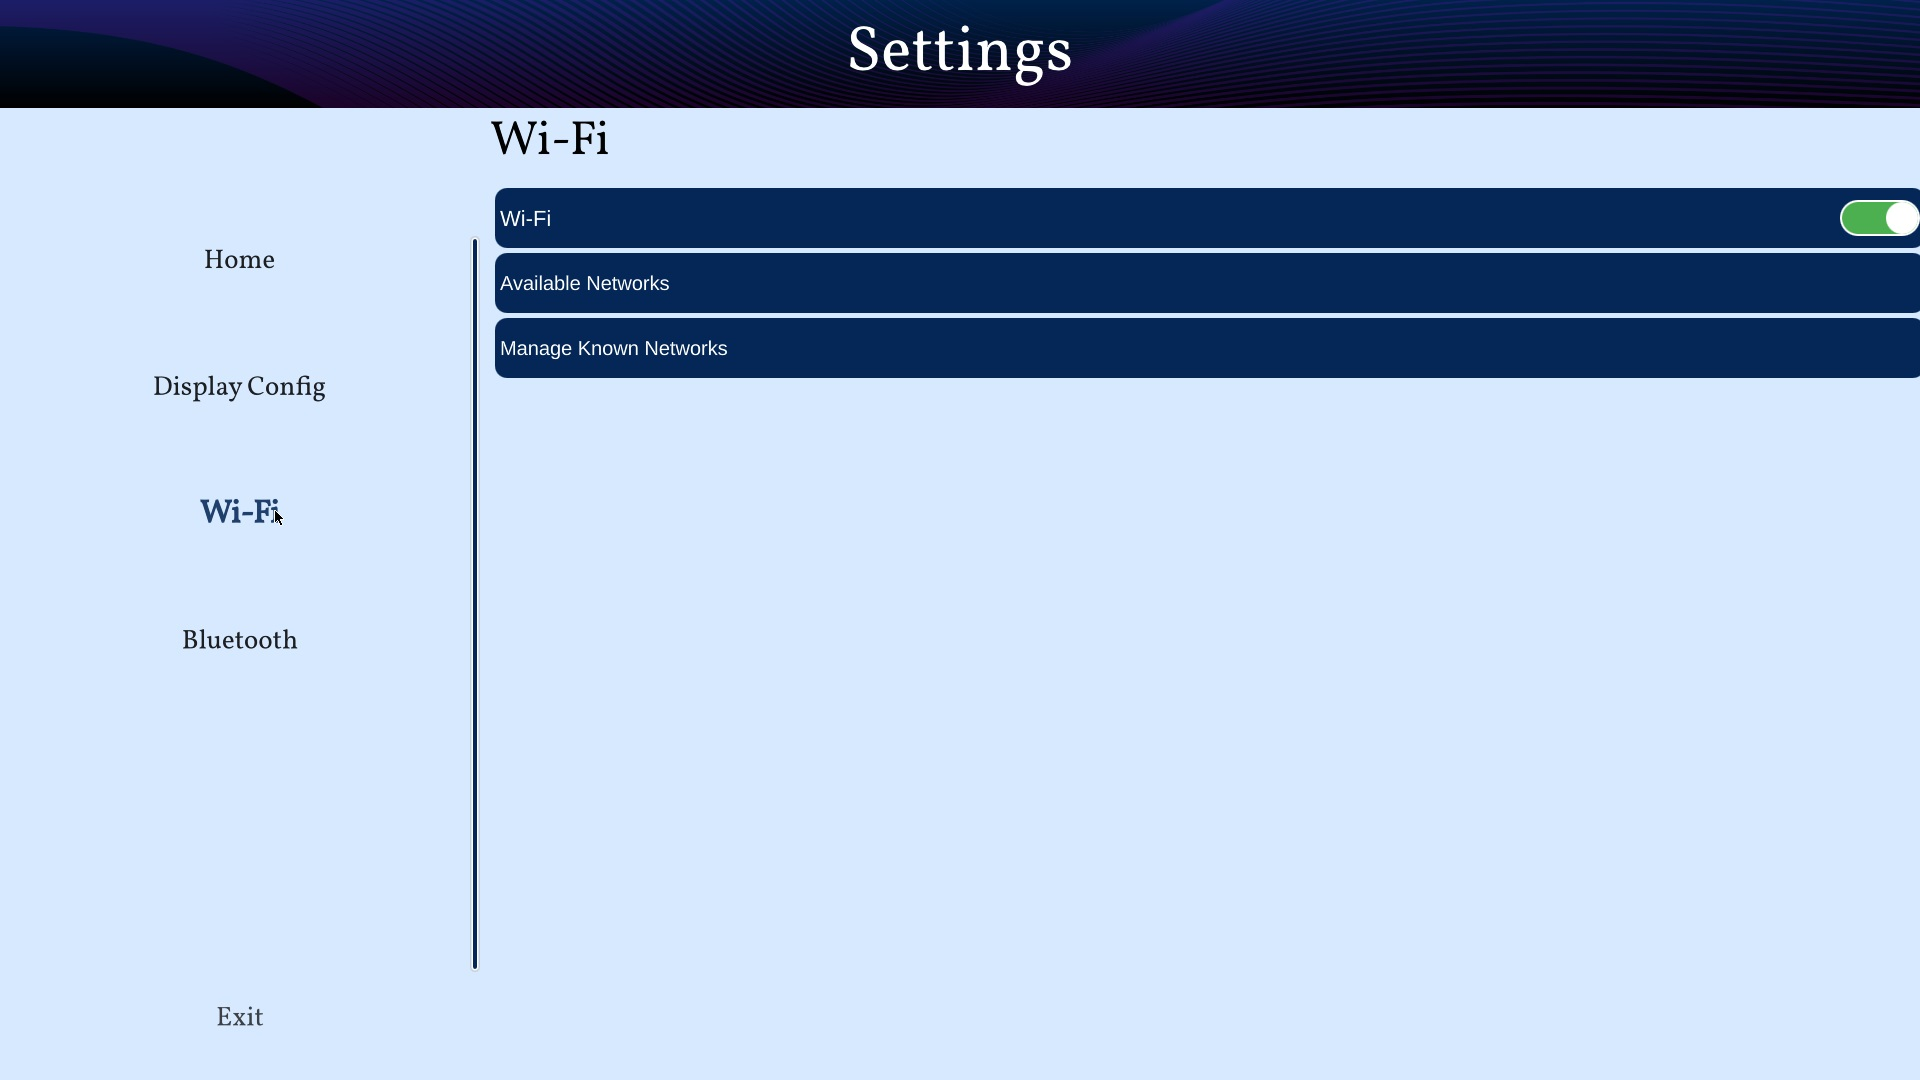
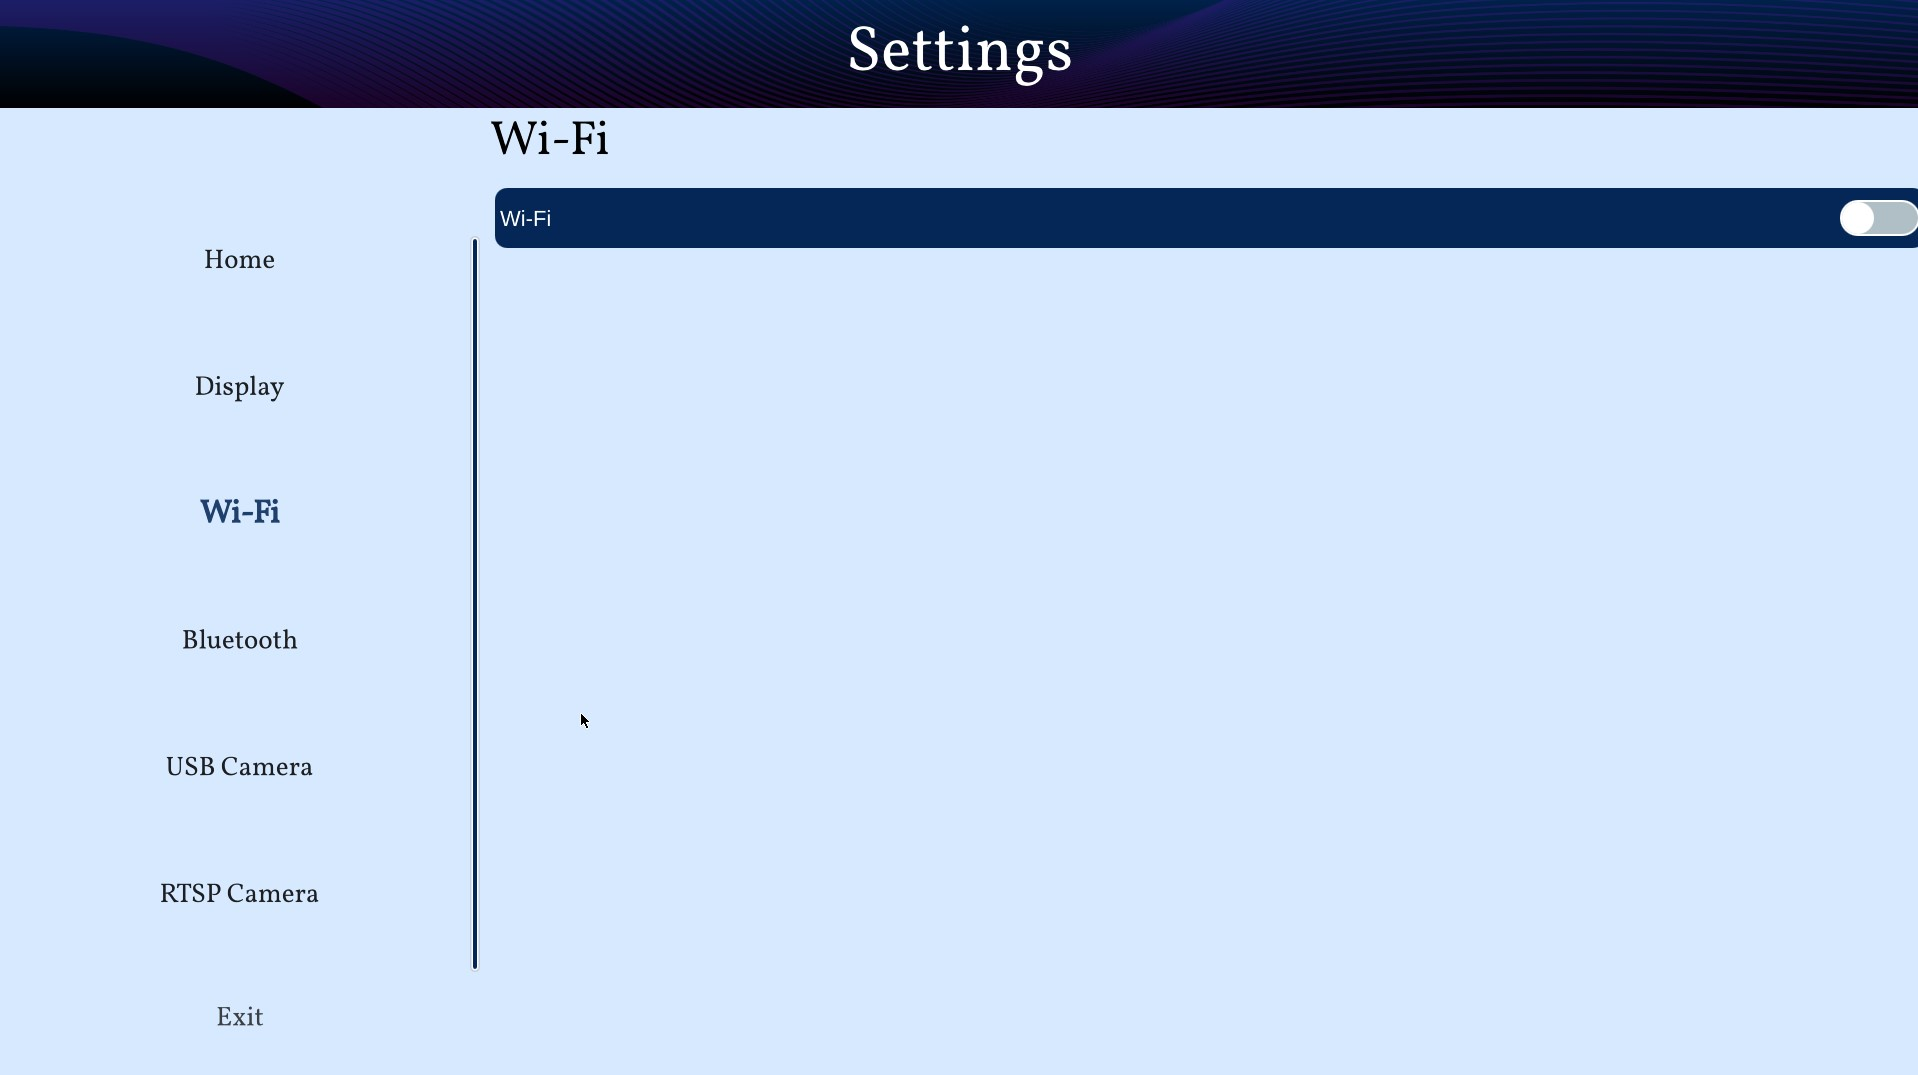
OOBE demo updates for v1.8.0

diff --git a/quickstart/oobe.rst b/quickstart/oobe.rst
@@ -52,12 +52,26 @@ video and audio playback of the video file.
 
     Getting Started pane on SL1640
 
-The video will play continuously until the "Close" button in the lower right hand corner is clicked. This will return the user
-to the main page.
+The video will play continuously until the "Close" button in the lower right hand corner of footer is clicked. This will return the user to the main page.
 
 .. figure:: media/getting-started-video-close-button-crop.jpg
 
     Highlighted Close button during video playback
+
+This footer also have an option to display real-time resource usage information such as CPU, GPU, NPU, and Memory consumption during runtime. To enable this, you can click on the "Show stats" button on the lower right hand corner.
+
+.. figure:: media/getting-started-video-stats-button-crop.jpg
+
+    Highlighted Show Stats button during video playback
+
+It appears as a horizontal panel at the bottom of the screen, occupying approximately 8–10% of the total display area. It remains persistently visible unless manually hidden or disabled for all the demos.
+
+.. figure:: media/show-stats.jpg
+
+	System Load Status on Footer
+
+.. note::
+	The CPU stats shown in %CPU is the CPU used at the current moment by the entire usecase as a % of the current CPU freq which is configured as schedutil mode (which is dynamic in nature) by default. To see accurate %CPU usage, CPUfreq should be kept in performance (or fixed userdefined) mode.
 
 Video
 ^^^^^
@@ -150,6 +164,8 @@ environment. These demos are `Textures <https://doc.qt.io/qt-5/qtopengl-textures
 
     The FingerPaint application is intended to be used with displays with a touch panel.
 
+.. _SynaAI-label:
+
 Syna AI
 ^^^^^^^
 
@@ -158,6 +174,8 @@ The fourth button on the left is the "AI" button, which opens the "AI" pane. Thi
 .. figure:: media/syna-explorer-ai-pane.jpg
 
     AI pane on SL1680
+
+.. _VideoUsecases-label:
 
 Video Usecases
 """"""""""""""
@@ -301,7 +319,11 @@ The goal of SR is to generate a high-resolution (HR) image or video from one or 
 
     Super Resolution slideshow pane on SL1680
 
-This application uses a set of images to run super-resolution. It displays both normal and super-res enhanced image.
+.. figure:: media/syna-ai-player-super-resolution-slideshow-mainmenu.jpg
+
+    Super Resolution slideshow main menu on SL1680
+
+It displays both normal and super-res enhanced image.User can choose either a set of files or camera as a source.
 
 .. figure:: media/syna-ai-player-super-resolution-slideshow-example.jpg
 
@@ -313,6 +335,15 @@ After selecting the desired files, click on "Play User Files" to begin playback 
 
 In the center, you will find the Play button, which will simply start the application with the default files.
 
+USB camera capture support allows users to capture images using a USB camera that records at 720p and superscales the output to 4K.
+
+To utilize this feature, users must connect the camera and click the Launch Camera Button, which opens the camera interface. Upon clicking the capture image button, a confirmation dialog appears, allowing users to view the captured 720p image on the left and the 4K image on the right, with an option to stop playback. Additionally, users can exit the camera preview by clicking the Exit Camera Button.
+
+.. figure:: media/syna-ai-player-super-resolution-slideshow-camera-example.jpg
+
+    Super Resolution slideshow camera example
+
+
 Face Recognition
 ****************
 This application is for real time face recognition and identification. 
@@ -321,11 +352,19 @@ This application is for real time face recognition and identification.
 
     Face Recognition pane on SL1680
 
-Upon initiation of the camera feed via the Play function, the system will detect new faces. For each new detection, a preview image will be displayed, prompting the user to provide a name. This name is then saved to the local database. For faces already present in the database, the corresponding name will be automatically displayed above the bounding box. All face identification data is stored locally in the face_id_data.yml file, located at /home/root/demo/configs.
+Upon initiation of the camera feed via the Play function, the system will detect new faces. By using the Preview button, toggle the visibility of the preview panel. This panel displays detected faces. 
 
-.. note::
+.. figure:: media/syna-ai-player-face-recognition-main-page.jpg
 
-	The current application iteration processes only the largest detected face within the frame for recognition purposes.
+    Face Recognition Main Page on SL1680
+
+Users can confirm desired faces by clicking the Yes button on Preview panel, and enter names in the provided text boxes, then finalize the process with the Ok button. To avoid displaying unwanted faces, click the Cancel button. 
+
+.. figure:: media/syna-ai-player-face-recognition-example.jpg
+
+    Face Recognition Example on SL1680
+
+For faces already present in the database, the corresponding name will be automatically displayed above the bounding box. All face identification data is stored locally in the face_id_data.yml file, located at /home/root/demo/configs.
 
 Audio Usecases
 ^^^^^^^^^^^^^^^
@@ -388,41 +427,113 @@ Click on left side buttons, to select a file. A file explorer will open which wi
 Click on "SAVE SETTINGS" button to save selections. Click on "PLAY" button to start.
 
 
+Real Time Streaming
+^^^^^^^^^^^^^^^^^^^
+The sixth button on the left is the "Real Time Streaming" button. This pane contains syna players. One is Syna Gst WebRTC, Seamless Real-Time Communication with GStreamer's WebRTC Sink and the other one is Syna Dash Player, Adaptive MPD Player with Smooth Resolution Switching.
 
-Camera Config
-^^^^^^^^^^^^^
+.. figure:: media/real_time_streaming_pane.jpg
 
-The sixth button on the left is the "Camera Config" button. This pane contains options to configure camera settings for different SynaExplorer demo applications.
+	Real Time Streaming Pane
+
+Syna Gst WebRTC
+"""""""""""""""
+Astra transforms real-time communication by utilizing GStreamer's WebRTC sink for fast audio and video streaming. Built on the GStreamer framework, Astra provides developers with a seamless, scalable solution for modern communication needs
+
+The WebRTC GStreamer plugin (webrtcsink) enables real-time peer-to-peer media streaming using WebRTC technology. This plugin allows GStreamer applications to transmit and receive audio and video streams over WebRTC, including essential features like built-in signaling, ICE (Interactive Connectivity Establishment), STUN/TURN, and data channels.
+
+When users click on the “Streaming on Web” section, they will see the UI shown below, from the drop-down menu, user can choose Camera, FileSrc or AI Demos as Input.
+
+.. figure:: media/streaming_on_web.jpg
+
+	UI for streaming on web
+
+Steps for using Camera as an Input
+**********************************
+a.	Ensure a camera device is connected to the board before using this feature.
+b.	Click the “Start” button after selecting the source. A message will appear, displaying the IP address and port number to watch the stream in any local browser. See the example image below:
+
+.. figure:: media/streaming_on_web_camera.jpg
+
+	Streaming on web with camera
+
+c.	The stream will stop when the user clicks the “Stop” button or exits the app.
+d.	After opening the IP address with the port number in a browser, a link will appear in the top left corner of the webpage. Click on that link to view the stream. Below is an example of how the user will see the stream in their local browser:
+
+.. figure:: media/streaming_on_web_user_streaming.jpg
+
+	User streaming on the local browser
+
+Steps for using FileSrc as an Input
+***********************************
+a.	This option lets users stream local video files present on the system.
+b.	Selecting this option opens a file explorer for users to choose a video file, as shown in the image below:
+
+.. figure:: media/streaming_on_web_filesrc.jpg
+
+	Streaming on web with FileSrc
+
+c.	After selecting a file, users must click the “Start” button to begin streaming.
+d.	Streaming stops when users click the “Stop” button, end the stream, or exit the app.
+ 
+Steps for using AI Demos as an Input
+************************************
+With this option, users can view AI-related demos that showcase Astra’s capabilities in processing complex tasks and multitasking. The demos include object detection, pose estimation, and face detection, as shown in the image below. For more details, please check the :ref:`VideoUsecases-label` from :ref:`SynaAI-label`.
+
+.. figure:: media/streaming_on_web_ai_examples.jpg
+
+	AI Demos on GST WebRTC
+
+Syna Dash Player
+""""""""""""""""
+This is a modern DASH player built to stream .mpd files with high efficiency. It supports real-time adaptive bitrate streaming using MPEG-DASH standards. The player automatically adjusts video resolution based on current network conditions. It ensures minimal buffering and seamless playback across all bandwidth levels. Ideal for testing, development, or deploying scalable streaming solutions.
+
+When users click on the “Syna Dash Player” section, they will see the UI shown below. The user must first select the source using the input config button. Input can be FileSrc or URL. Once a source is selected, click the “Save” button. This action will open the explorer based on the input selection.
+
+.. figure:: media/syna_dash_player.jpg
+
+	Syna Dash Player input config menu on sl1680
+
+Steps for Using Input as Filesrc
+********************************
+
+a.	This option allows users to stream local video files on the system.
+b.	Selecting this option opens a file explorer for users to choose a video file to stream.
+c.	After selecting the file, click the “Play” icon at the center bottom of the app to start streaming, as shown in the image below:
+
+.. figure:: media/syna_dash_player_filesrc_example.jpg
+
+	Syna Dash Player Example with FileSrc
+
+d.	The video will loop until the user clicks the “stop” icon, or exits the app.
+e.	To change the stream, select the input configuration again. Click the “stop” button to halt the current stream, then click “play” to start the newly selected stream.
+
+Steps for Using Input as URL
+****************************
+
+a.	Users can enter any URL containing mpd files to stream.
+b.	Two sample URLs are provided to the user.
+c.	Ensure an internet connection before using this feature.
+d.	The video will pause when it reaches the end of stream (eos) or if the user clicks the “stop” icon, or exits the app. The image below shows how a .mpd file operates on the player.
+
+.. figure:: media/syna_dash_player_URL_example.jpg
+
+	Syna Dash Player Example with URL
+
+e.	To change the stream, select the input configuration again. Click the “stop” button to halt the current stream, then click “play” to start the newly selected stream.
+
+Current parameters (resolution and frames per second) will be displayed in the top right corner. These parameters will update in real-time according to the video being played. The display of these parameters plays a vital role that users might not notice changes in resolution because of the seamless transitions in the video that demonstrates our efficient hardware and software working in harmony. Consequently, displaying these parameters emphasizes the feature and its functionality.
 
 .. note::
-
-    Defaults will be used if settings is not used to configure.
-
-.. figure:: media/camera-config-pane.jpg
-
-    Camera Config pane on SL1680
-
-First section is for configuring the priority for the USB camera format selection. Click on the right side highlighted buttons to raise or
-lower the priority of specific format. Once done click on "Save Priorities" button.
-
-.. figure:: media/settings-priorities-crop.jpg
-
-    USB camera format priority settings on SL1680
-
-Second section is for configuring the RTSP URLs. After entering the RTSP URLs, click on "Save URLs" button. RTSP URLs can be verified by
-clicking on "Validate URLs" button to check if they are alive and reachable. Also it shows streaming media information.
-
-.. figure:: media/settings-rtsp-urls-crop.jpg
-
-    RTSP URLs settings on SL1680
-
-.. figure:: media/settings-rtsp-urls-validate-crop.jpg
-
-    RTSP URLs Validation on SL1680
-
+	The filesrc videos will play in a continuous loop, whereas the MPD files will stop the playback upon reaching the end of the stream (EOS).
+.. note::
+	The URL option in the input config won't work without an internet connection.
+.. note::
+	Max supported resolution is 720p.
+ 
 ISP Camera
 ^^^^^^^^^^
 The last pane on Applications is ISP Camera.
+
 .. note::
 
     ISP camera is available only in sl1680.
@@ -439,8 +550,8 @@ Settings can be launched by clicking the Settings icon in the quick access panel
 
 .. figure:: media/settings.jpg
 
-Display Config
-^^^^^^^^^^^^^^
+Display
+^^^^^^^
 
 Display config allows to select MIPI panel for given platform. You can select a panel from auto filled dropdown menu and click on "Save Panel" button. It will popup a messege to reboot a board. On reboot your new panel will be configured.
 
@@ -465,6 +576,25 @@ Display config allows to select MIPI panel for given platform. You can select a 
     Before running display settings, it is required to save uboot environment once to have persistent configuration for display.
     Interrupt a boot process on start, to stop in uboot console (See :ref:`uboot_prompt`). Enter "saveenv" command to save uboot environment. Reboot a system.
 
+USB Camera
+^^^^^^^^^^
+This section is for configuring the priority for the USB camera format selection. Click on the right side highlighted buttons to raise or lower the priority of specific format. Once done click on "Save Priorities" button.
+
+.. figure:: media/settings-priorities-crop.jpg
+
+    USB camera format priority settings on SL1680
+
+RTSP Camera
+^^^^^^^^^^^
+This section is for configuring the RTSP URLs. After entering the RTSP URLs, click on "Save URLs" button. RTSP URLs can be verified by clicking on "Validate URLs" button to check if they are alive and reachable. Also it shows streaming media information.
+
+.. figure:: media/settings-rtsp-urls-crop.jpg
+
+    RTSP URLs settings on SL1680
+
+.. figure:: media/settings-rtsp-urls-validate-crop.jpg
+
+    RTSP URLs Validation on SL1680
 
 WiFi
 ^^^^
